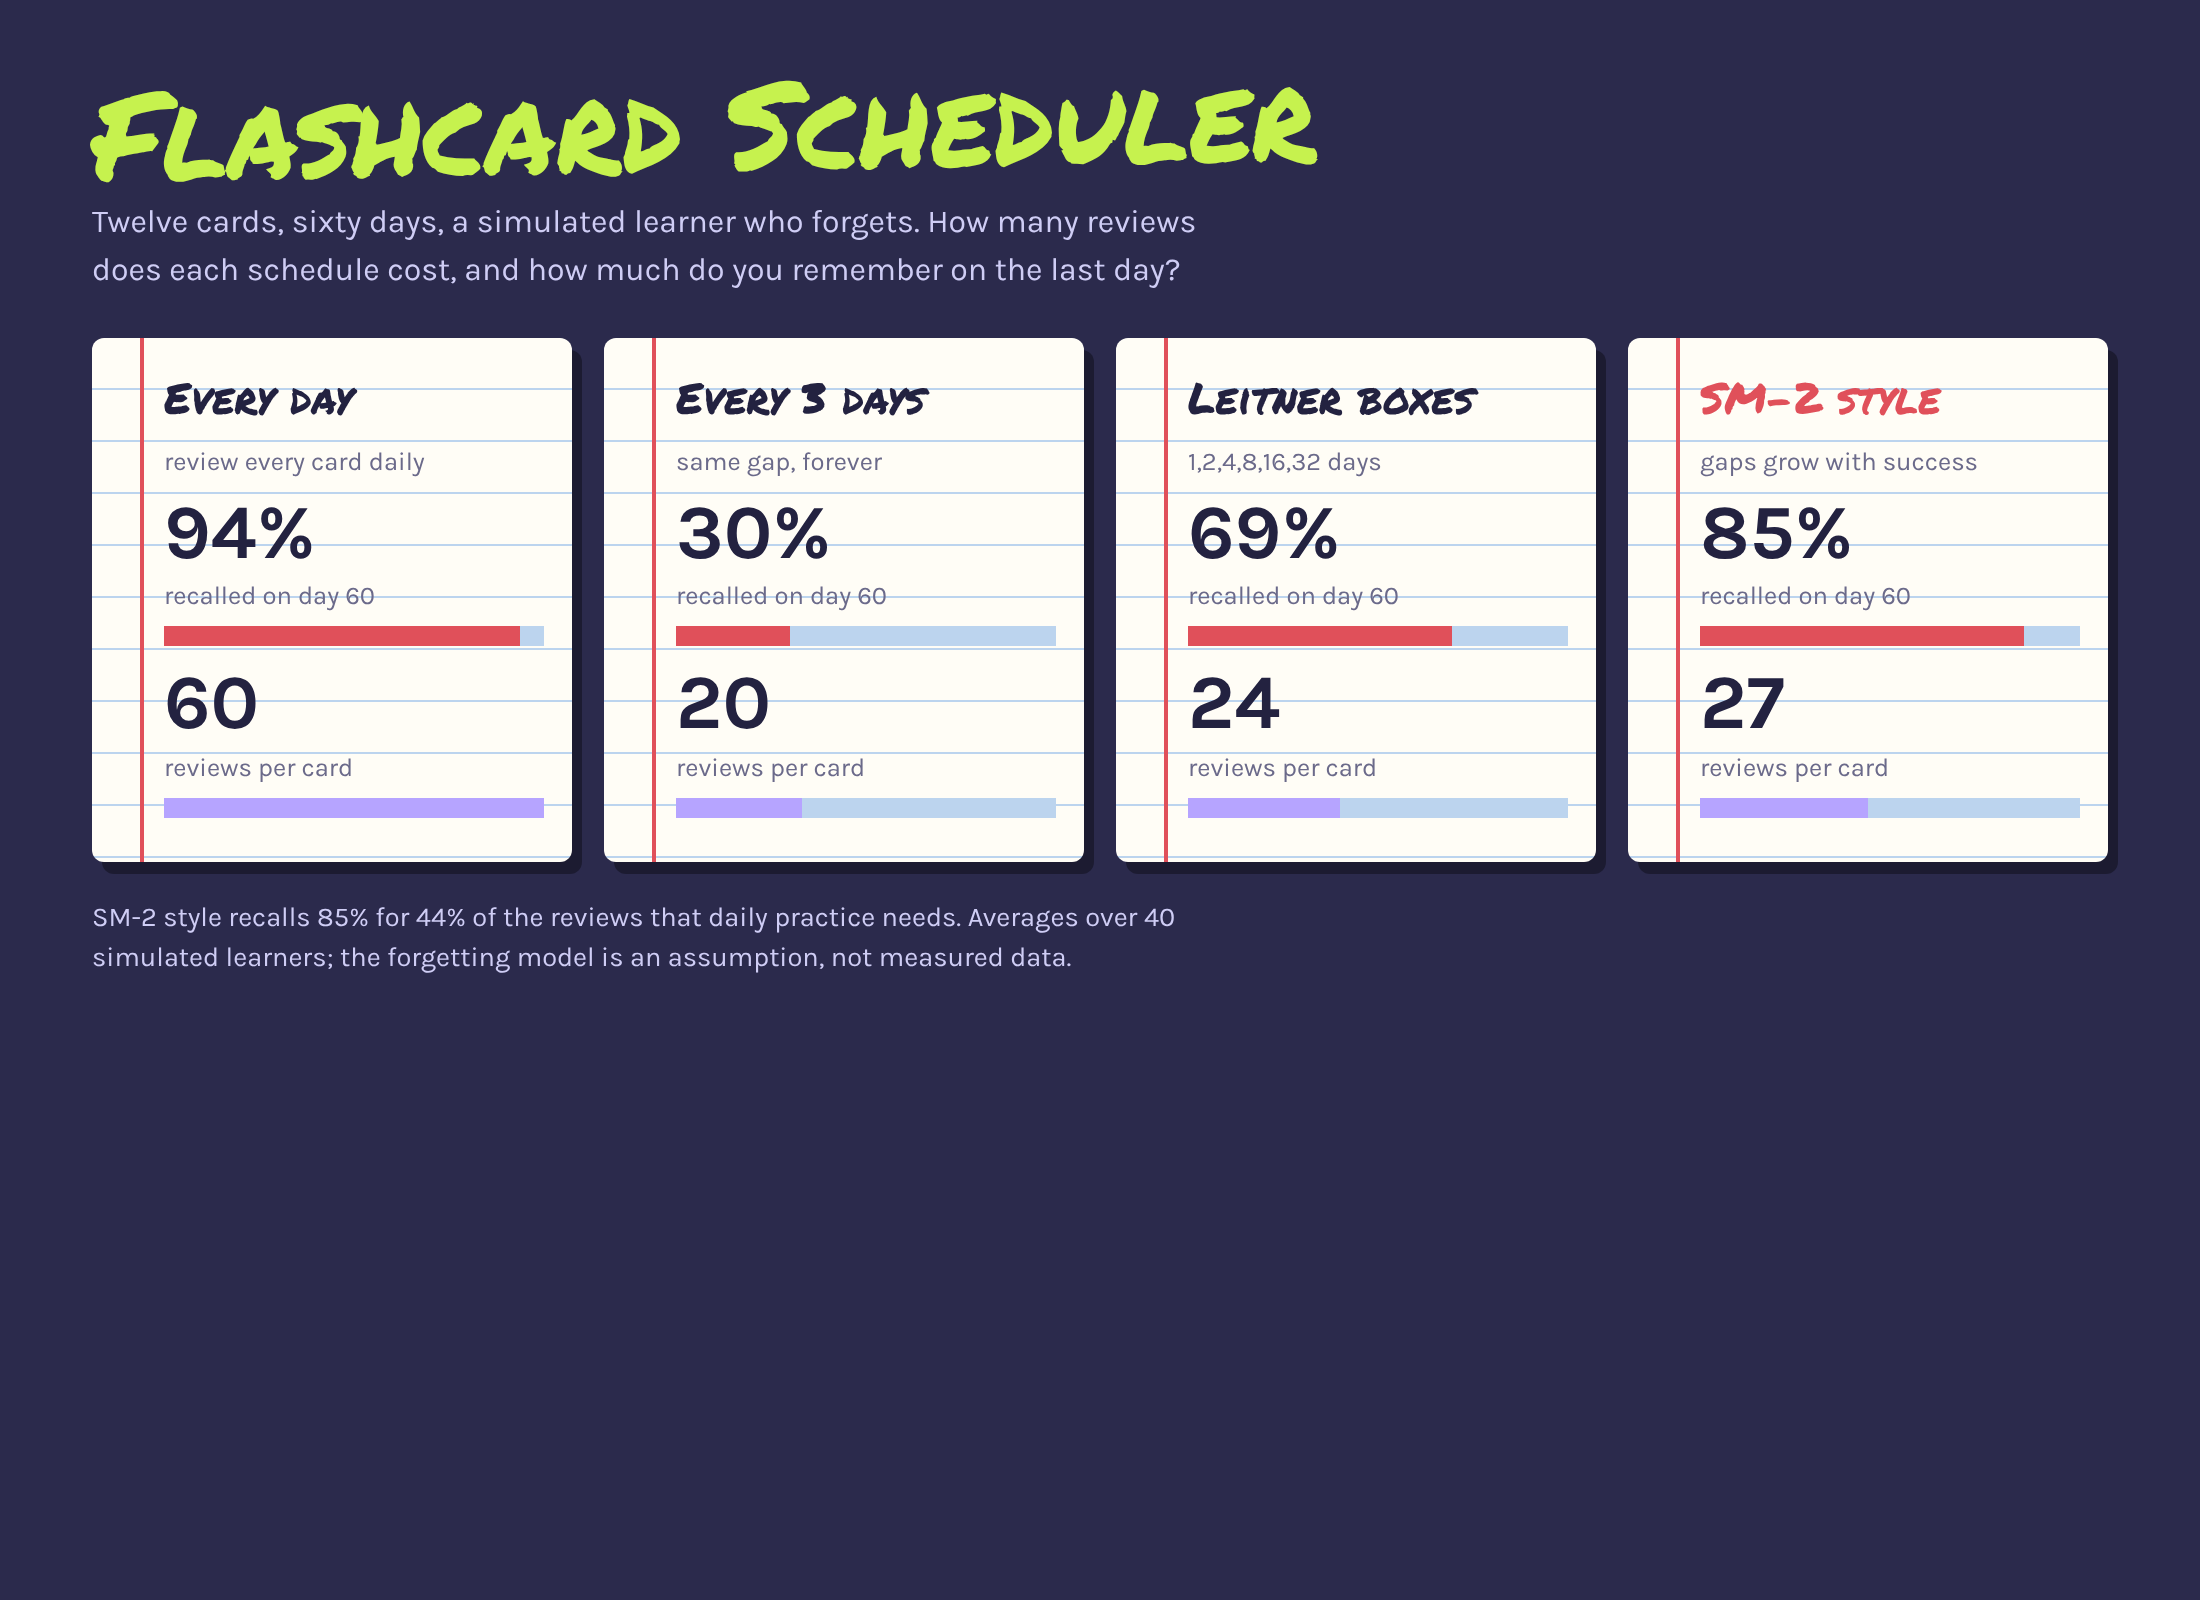
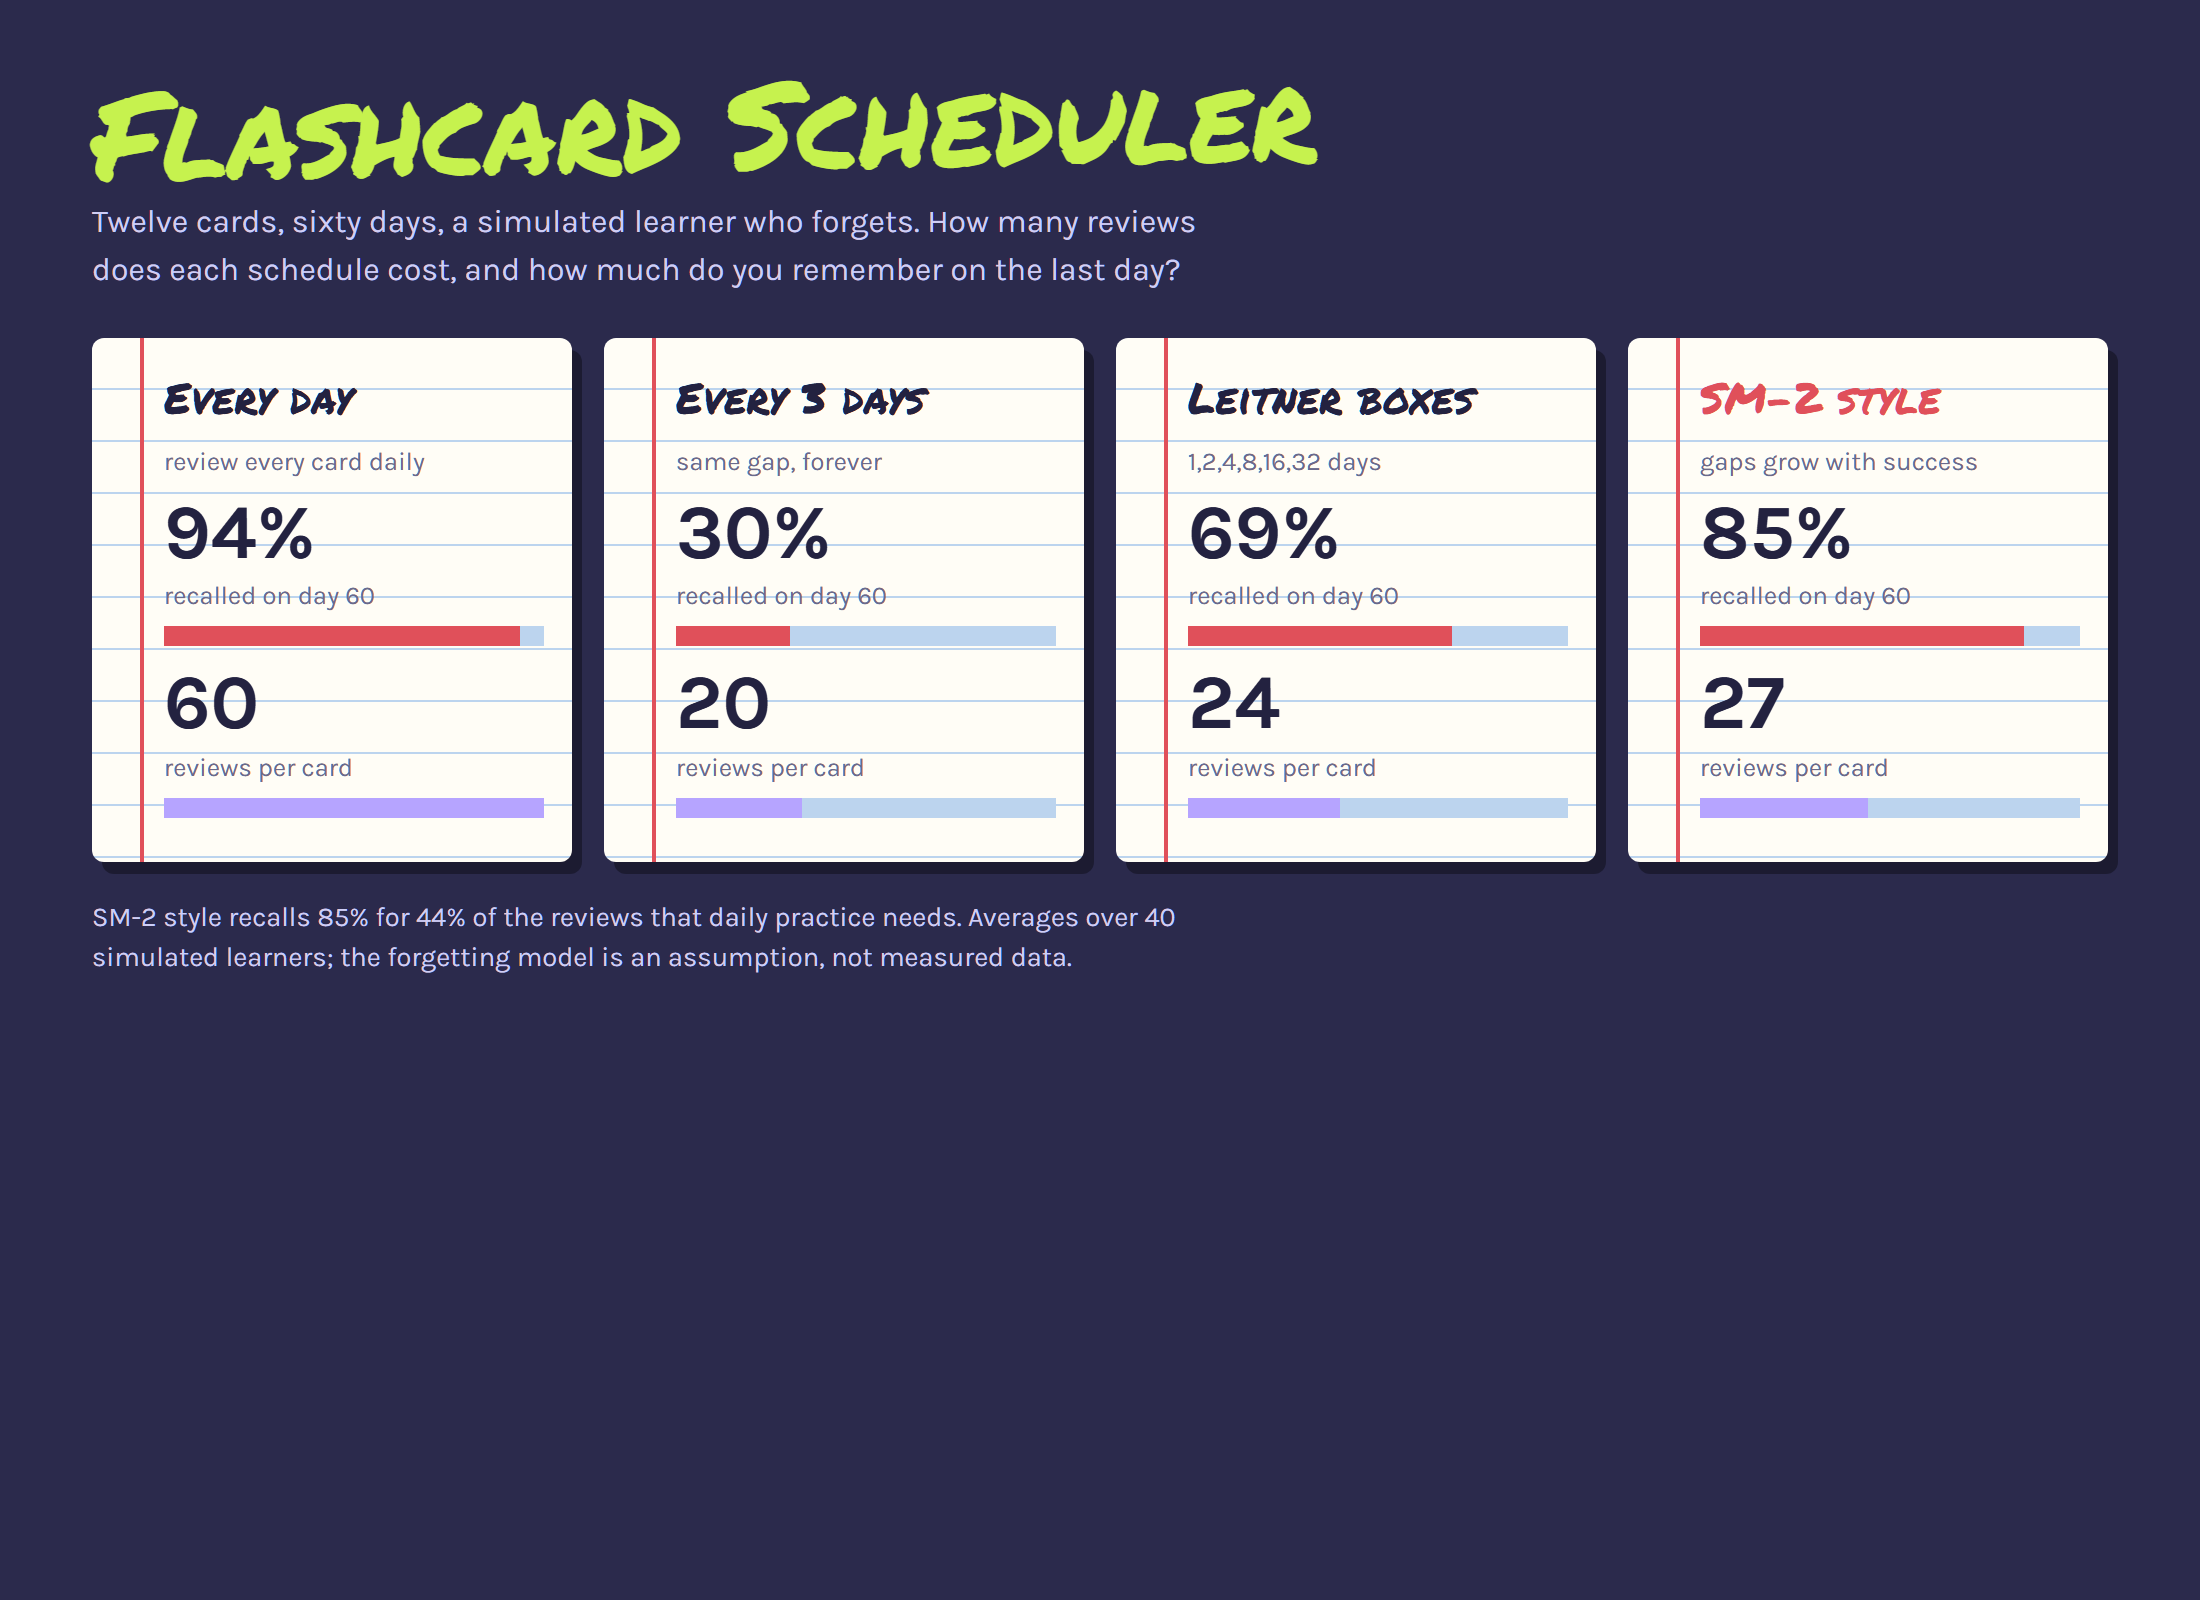
Improve flashcard-review-scheduler

diff --git a/static/index.html b/static/index.html
@@ -22,10 +22,10 @@ background-image:repeating-linear-gradient(transparent 0 25px,var(--rule) 25px 2
 <script>
 const $=i=>document.getElementById(i);
 const N={daily:["Every day","review every card daily"],fixed:["Every 3 days","same gap, forever"],leitner:["Leitner boxes","1,2,4,8,16,32 days"],sm2:["SM-2 style","gaps grow with success"]};
-(async()=>{const d=await (await fetch("/sample")).json();const r=await (await fetch("/compare",{method:"POST",headers:{"Content-Type":"application/json"},body:JSON.stringify({cards:d.cards,days:d.days})})).json();
+(async()=>{try{const d=await (await fetch("/sample")).json();const r=await (await fetch("/compare",{method:"POST",headers:{"Content-Type":"application/json"},body:JSON.stringify({cards:d.cards,days:d.days})})).json();
 const s=r.strategies,mx=Math.max(...Object.values(s).map(x=>x.reviews_per_card));
 $("g").innerHTML=Object.keys(N).map(k=>{const x=s[k];return `<div class="c ${k=="sm2"?"win":""}"><h2>${N[k][0]}</h2><div class="u">${N[k][1]}</div>
 <div class="n">${Math.round(x.recall*100)}%</div><div class="u">recalled on day ${r.days}</div><div class="bar rc"><i style="width:${x.recall*100}%"></i></div>
 <div class="n">${x.reviews_per_card.toFixed(0)}</div><div class="u">reviews per card</div><div class="bar rv"><i style="width:${x.reviews_per_card/mx*100}%"></i></div></div>`}).join("");
-$("n").textContent=`SM-2 style recalls ${Math.round(s.sm2.recall*100)}% for ${Math.round(s.sm2.reviews/s.daily.reviews*100)}% of the reviews that daily practice needs. Averages over 40 simulated learners; the forgetting model is an assumption, not measured data.`})();
+$("n").textContent=`SM-2 style recalls ${Math.round(s.sm2.recall*100)}% for ${Math.round(s.sm2.reviews/s.daily.reviews*100)}% of the reviews that daily practice needs. Averages over 40 simulated learners; the forgetting model is an assumption, not measured data.`}catch(e){$("n").textContent="Could not compare the schedules. Refresh to try again."}})();
 </script></body></html>

diff --git a/tests/test_all.py b/tests/test_all.py
@@ -64,3 +64,7 @@ def test_api():
 def test_api_validation():
     assert c.post("/compare", json={"cards": [], "days": 60}).status_code == 422
     assert c.post("/compare", json={"cards": [{"name": "a", "hardness": 1}], "days": 3}).status_code == 422
+
+
+def test_index_has_compare_error_text():
+    assert "Could not compare the schedules" in c.get("/").text
